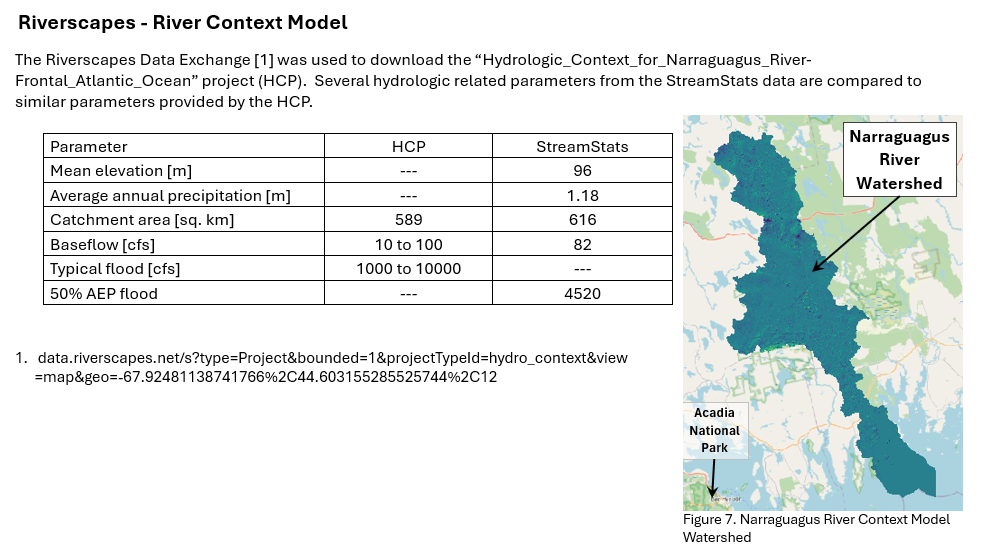
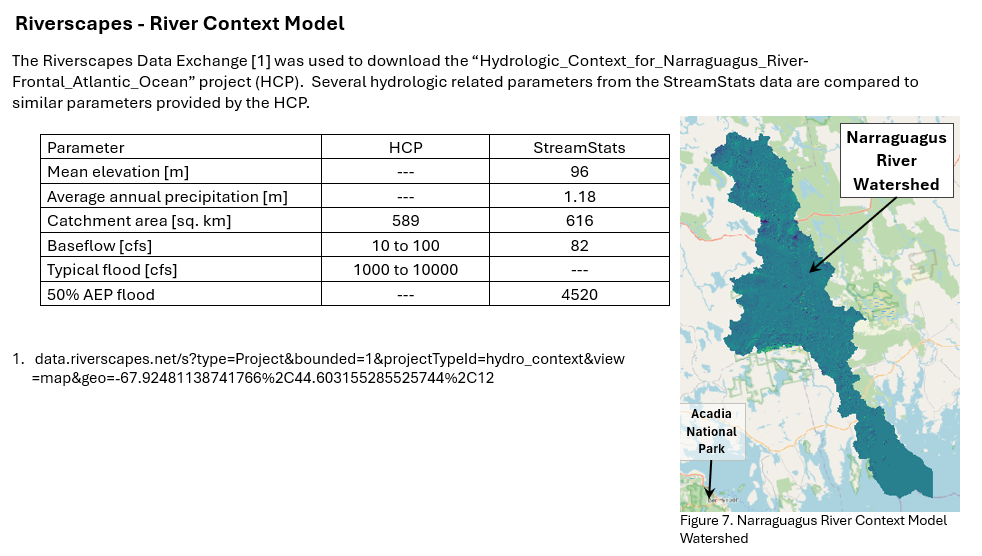
Updated Fig 7

Changed region(s): [[0.0, 0.0922, 1.0, 0.9837], [0.0306, 0.6148, 0.6422, 0.7071], [0.0, 0.0307, 0.367, 0.0615]]

diff --git a/HW4/index.html b/HW4/index.html
@@ -19,7 +19,7 @@
         <img src="../HW4/HW4_P2A.png" alt="" style="margin-left: 250px; margin-bottom: 30px; width: 1500"><br>
         <img src="../HW4/HW4_P2B.png" alt="" style="margin-left: 50px; margin-bottom: 30px; width: 1400"><br>
         <h3>___ RiverScapes Context Project ___</h3>
-        <img src="../HW4/HW4_P2C.png" alt="void" style="margin-left: 250px; margin-bottom: 30px; width: 1410"><br>
+        <img src="../HW4/HW4_P2C.png" alt="void" style="margin-left: 250px; margin-bottom: 30px; width: 1400"><br>
 
     </p>
     <hr>
